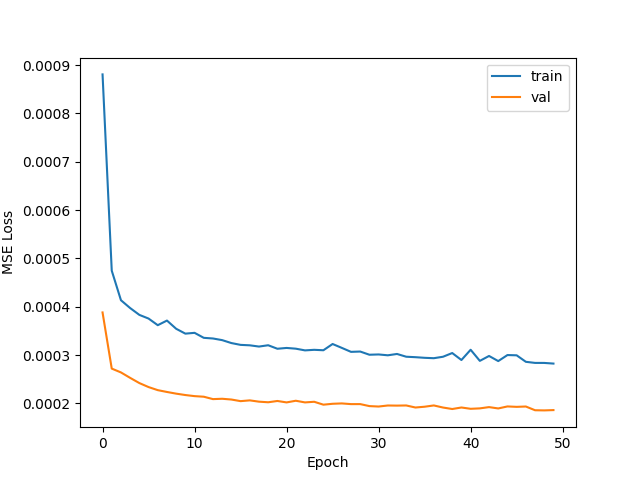
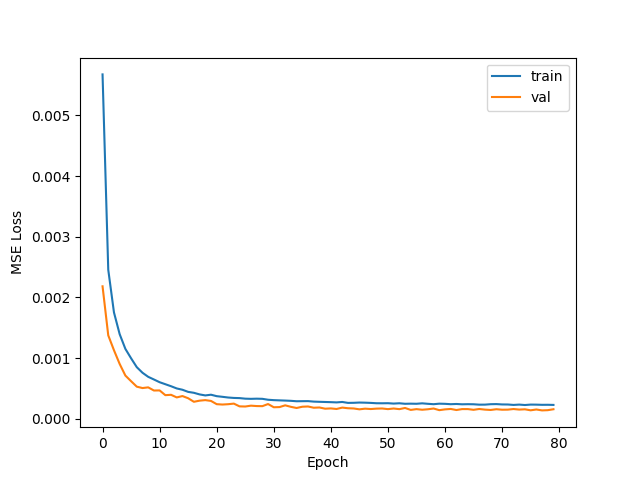
Update TinyMCNN with BatchNorm+Dropout, retrain on Part A+B (700 imgs, 80 epochs, MAE=284), update dashboard and loss curve

diff --git a/app.py b/app.py
@@ -31,16 +31,18 @@ EMAIL_PASS  = "qdpdxivnnvfiqexr"
 ALERT_EMAIL = "sunnyviraj9@gmail.com"
 
 # -------------------------------
-# Model: Tiny-MCNN
+# Model: Tiny-MCNN (must match train.py exactly)
 # -------------------------------
 class TinyMCNN(nn.Module):
     def __init__(self):
         super().__init__()
         self.net = nn.Sequential(
-            nn.Conv2d(3, 16, 3, 1, 1), nn.ReLU(), nn.MaxPool2d(2),
-            nn.Conv2d(16, 32, 3, 1, 1), nn.ReLU(), nn.MaxPool2d(2),
-            nn.Conv2d(32, 64, 3, 1, 1), nn.ReLU(),
-            nn.Conv2d(64,  1, 1)
+            nn.Conv2d(3,  16, 3, 1, 1), nn.BatchNorm2d(16), nn.ReLU(), nn.MaxPool2d(2),
+            nn.Conv2d(16, 32, 3, 1, 1), nn.BatchNorm2d(32), nn.ReLU(), nn.MaxPool2d(2),
+            nn.Conv2d(32, 64, 3, 1, 1), nn.BatchNorm2d(64), nn.ReLU(),
+            nn.Dropout2d(0.1),
+            nn.Conv2d(64, 32, 3, 1, 1), nn.ReLU(),
+            nn.Conv2d(32,  1, 1),
         )
 
     def forward(self, x):
